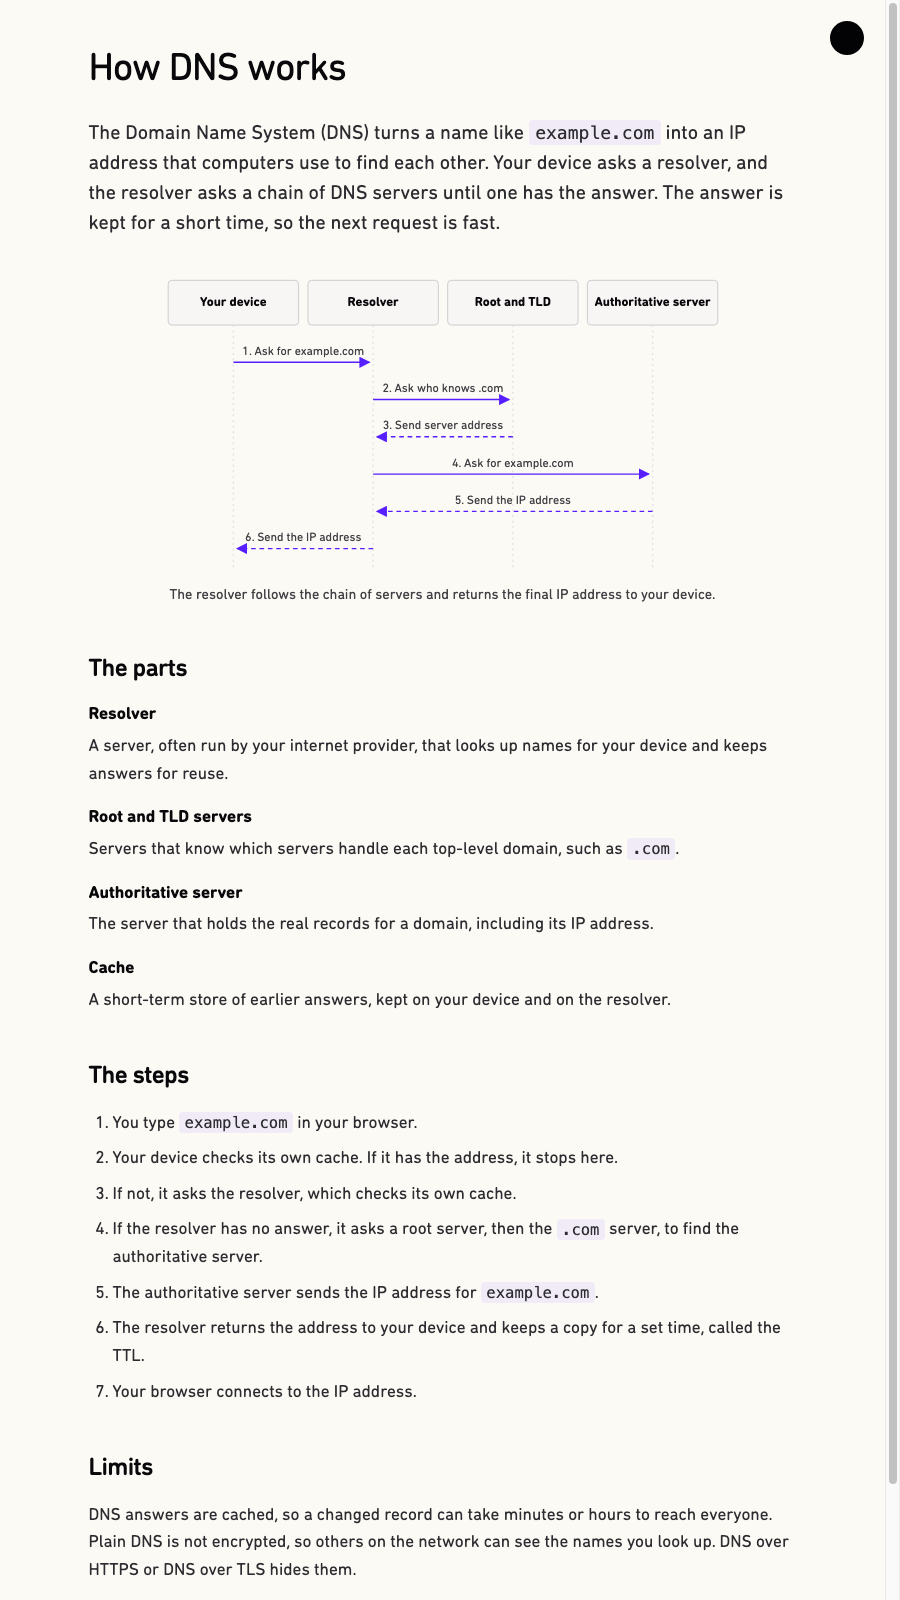
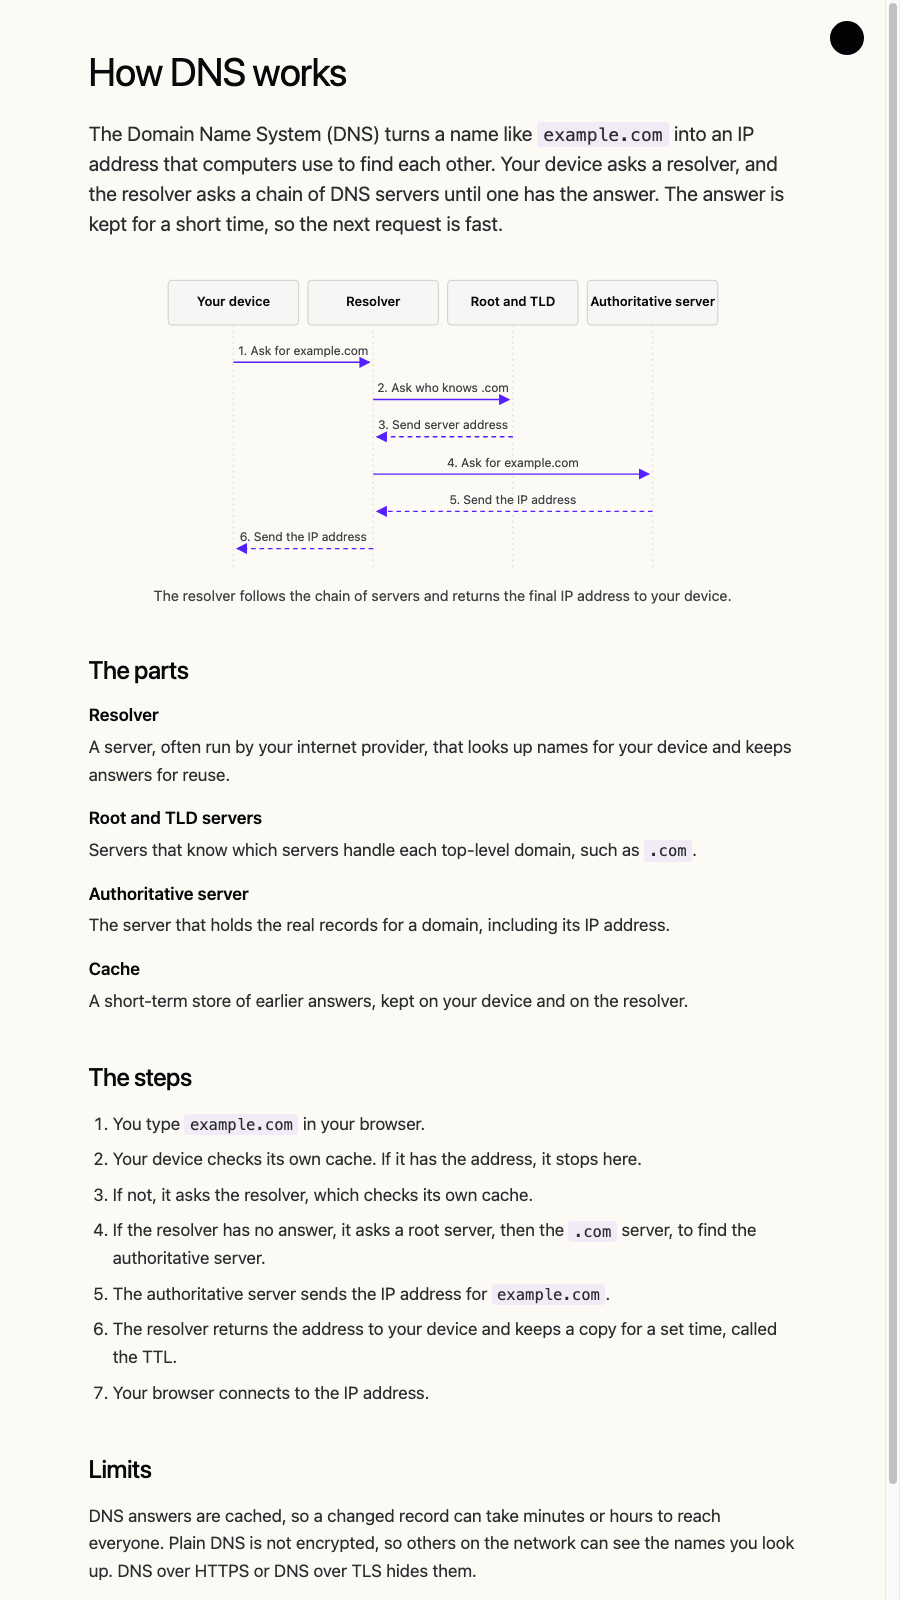
Use the system font in explain pages, not the SX fonts
The SX fonts were added without an instruction from the owner.
Release 0.8.1.

diff --git a/docs/tutorials/examples/explain-dns-page.html b/docs/tutorials/examples/explain-dns-page.html
@@ -8,7 +8,7 @@
 <style>
   /* Colors, type, and spacing from the Stayux design system (design-system.css).
      The page follows the system theme. data-theme="light" or "dark" on <html>
-     overrides it. The SX fonts show when installed, else the system font. */
+     overrides it. Text uses the system font. */
   :root, [data-theme="light"] {
     --ca-bg: oklch(0.984 0.007 87);               /* paper-35 */
     --ca-heading: oklch(0.140 0.006 280);         /* n900 */
@@ -54,8 +54,8 @@
     --ca-toggle: #ffffff;
   }
   :root {
-    --ca-font: 'SX', system-ui, -apple-system, "Segoe UI", Roboto, sans-serif;
-    --ca-title: 'SX-Title', 'SX', system-ui, -apple-system, "Segoe UI", Roboto, sans-serif;
+    --ca-font: system-ui, -apple-system, "Segoe UI", Roboto, sans-serif;
+    --ca-title: system-ui, -apple-system, "Segoe UI", Roboto, sans-serif;
     --ca-mono: 'SF Mono', Consolas, 'Liberation Mono', Menlo, monospace;
     --ca-radius: 4px;                             /* radius-lg */
   }

diff --git a/templates/explain-page.html b/templates/explain-page.html
@@ -8,7 +8,7 @@
 <style>
   /* Colors, type, and spacing from the Stayux design system (design-system.css).
      The page follows the system theme. data-theme="light" or "dark" on <html>
-     overrides it. The SX fonts show when installed, else the system font. */
+     overrides it. Text uses the system font. */
   :root, [data-theme="light"] {
     --ca-bg: oklch(0.984 0.007 87);               /* paper-35 */
     --ca-heading: oklch(0.140 0.006 280);         /* n900 */
@@ -54,8 +54,8 @@
     --ca-toggle: #ffffff;
   }
   :root {
-    --ca-font: 'SX', system-ui, -apple-system, "Segoe UI", Roboto, sans-serif;
-    --ca-title: 'SX-Title', 'SX', system-ui, -apple-system, "Segoe UI", Roboto, sans-serif;
+    --ca-font: system-ui, -apple-system, "Segoe UI", Roboto, sans-serif;
+    --ca-title: system-ui, -apple-system, "Segoe UI", Roboto, sans-serif;
     --ca-mono: 'SF Mono', Consolas, 'Liberation Mono', Menlo, monospace;
     --ca-radius: 4px;                             /* radius-lg */
   }

diff --git a/tests/fixtures/explain-page.html b/tests/fixtures/explain-page.html
@@ -8,7 +8,7 @@
 <style>
   /* Colors, type, and spacing from the Stayux design system (design-system.css).
      The page follows the system theme. data-theme="light" or "dark" on <html>
-     overrides it. The SX fonts show when installed, else the system font. */
+     overrides it. Text uses the system font. */
   :root, [data-theme="light"] {
     --ca-bg: oklch(0.984 0.007 87);               /* paper-35 */
     --ca-heading: oklch(0.140 0.006 280);         /* n900 */
@@ -54,8 +54,8 @@
     --ca-toggle: #ffffff;
   }
   :root {
-    --ca-font: 'SX', system-ui, -apple-system, "Segoe UI", Roboto, sans-serif;
-    --ca-title: 'SX-Title', 'SX', system-ui, -apple-system, "Segoe UI", Roboto, sans-serif;
+    --ca-font: system-ui, -apple-system, "Segoe UI", Roboto, sans-serif;
+    --ca-title: system-ui, -apple-system, "Segoe UI", Roboto, sans-serif;
     --ca-mono: 'SF Mono', Consolas, 'Liberation Mono', Menlo, monospace;
     --ca-radius: 4px;                             /* radius-lg */
   }

diff --git a/tests/test_explain_page.py b/tests/test_explain_page.py
@@ -145,7 +145,8 @@ class DesignSystemTests(unittest.TestCase):
         self.assertIn('[data-theme="light"]', self.page)
 
     def test_fonts_fall_back_to_system(self):
-        self.assertIn("'SX', system-ui", self.page)
+        self.assertNotIn("SX", self.page)
+        self.assertIn("--ca-font: system-ui", self.page)
         self.assertNotIn("@font-face", self.page)
 
     def test_text_column_and_radius(self):

diff --git a/docs/tutorials/12-explain-html.md b/docs/tutorials/12-explain-html.md
@@ -63,8 +63,8 @@ same:
 - Every page uses this one kind of diagram. The Markdown file shows the same
   diagram as a Mermaid sequence diagram, in the same colors.
 
-The colors, the fonts, and the box corners come from the Stayux design system.
-The SX fonts show when they are installed. Else the page uses the system font.
+The colors and the box corners come from the Stayux design system. The text
+uses the system font.
 
 ## What the gate checks
 
